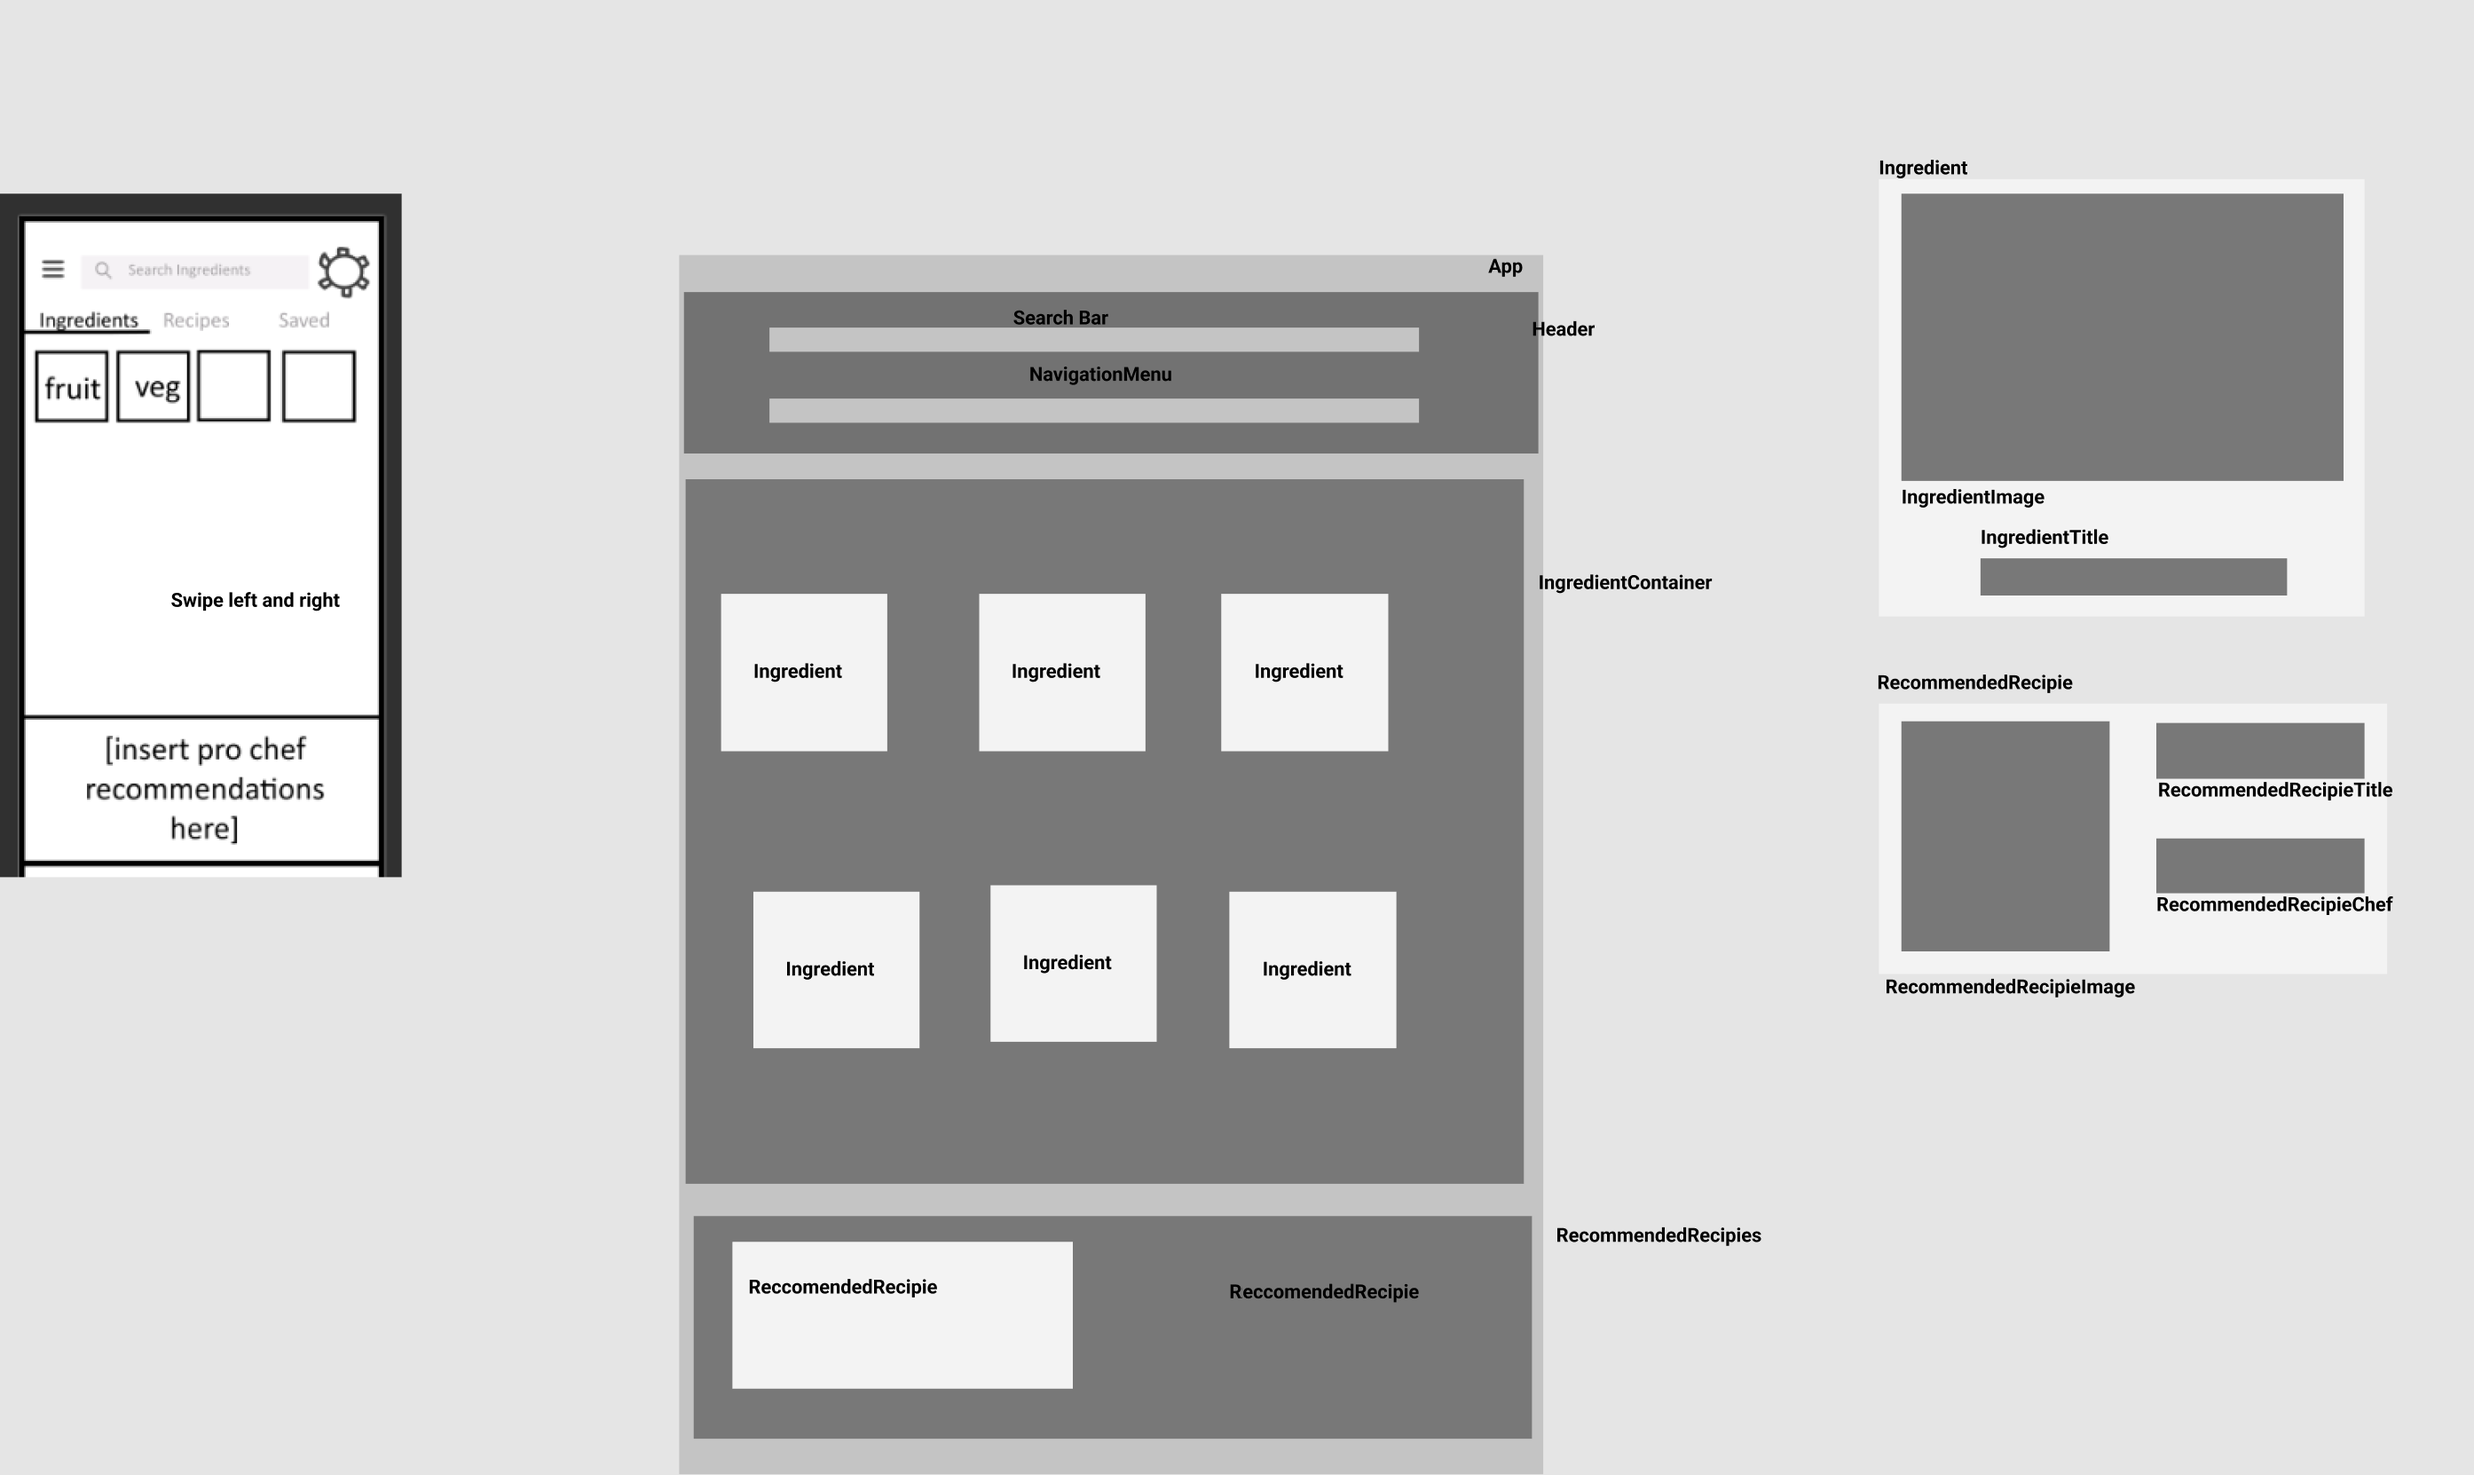
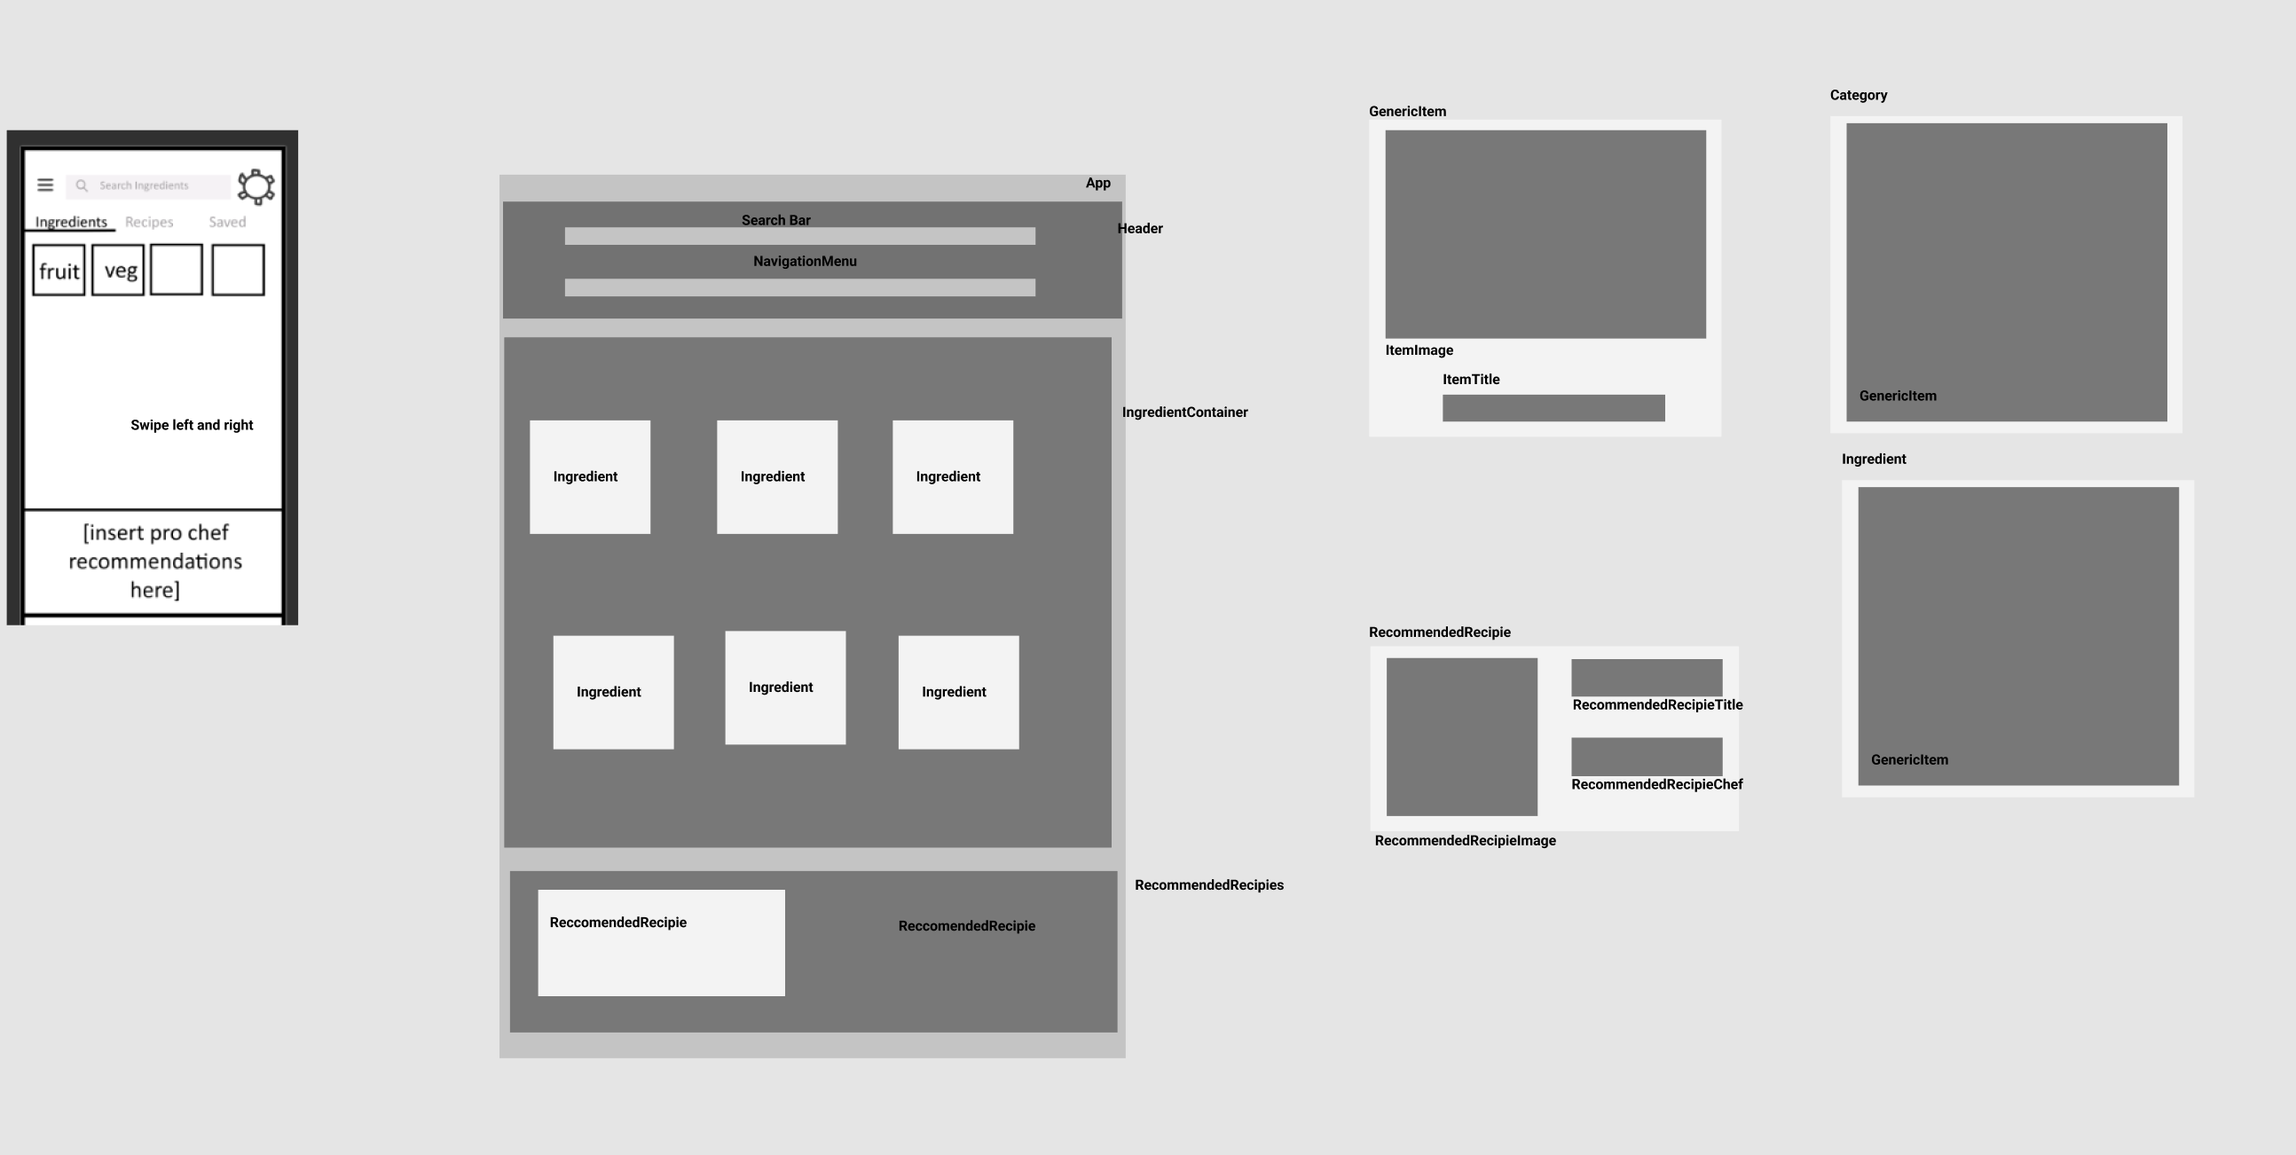
updated folder structure

diff --git a/src/App.js b/src/App.js
@@ -1,8 +1,17 @@
 import React from "react";
-import TestComponent from "./components/TestComponent";
+// import TestComponent from "./components/TestComponent";
+import Header from "./components/Header/Header";
+import IngredientContainer from "./components/IngredientContainer/IngredientContainer";
+import RecommendedRecipes from "./components/RecommendedRecipes/RecommendedRecipes";
 
 function App() {
-  return <TestComponent />;
+    return (
+        <div>
+            <Header />
+            <IngredientContainer />
+            <RecommendedRecipes />
+        </div>
+    );
 }
 
 export default App;

diff --git a/src/components/Header/Nav/Nav.js b/src/components/Header/Nav/Nav.js
@@ -1,8 +1,22 @@
 import React from "react";
 import styled from "styled-components";
+import Button from "./Button";
 
 const Nav = (props) => {
-    return <></>;
+    const ingredientsClickHandler = () => {
+        alert("Ingredients Clicked");
+    };
+
+    const recipesClickHandler = () => {
+        alert("Recipies Clicked");
+    };
+
+    return (
+        <div>
+            <Button onClick={ingredientsClickHandler} text={"Ingredients"} />
+            <Button onClick={recipesClickHandler} text={"Recipes"} />
+        </div>
+    );
 };
 
 export default Nav;

diff --git a/src/components/Header/Header.js b/src/components/Header/Header.js
@@ -1,15 +1,16 @@
 import React from "react";
 import styled from "styled-components";
+import Nav from "./Nav/Nav";
 
-function TestComponent() {
+const Header = (props) => {
     return (
-        <Style.TestDiv>
-            <p>Hello</p>
-        </Style.TestDiv>
+        <div>
+            <Nav />
+        </div>
     );
-}
+};
 
-export default TestComponent;
+export default Header;
 
 const Style = {
     TestDiv: styled.div`

diff --git a/src/components/IngredientContainer/IngredientContainer.js b/src/components/IngredientContainer/IngredientContainer.js
@@ -1,0 +1,20 @@
+import React, { useState } from "react";
+import styled from "styled-components";
+
+const IngredientContainer = (props) => {
+    const data = {};
+    const categories = [];
+    let ingredients = [];
+
+    return <div></div>;
+};
+
+export default IngredientContainer;
+
+const Style = {
+    TestDiv: styled.div`
+        & p {
+            color: ${(props) => props.theme.colors.primary};
+        }
+    `,
+};

diff --git a/src/components/Header/Nav/Button.js b/src/components/Header/Nav/Button.js
@@ -1,15 +1,11 @@
 import React from "react";
 import styled from "styled-components";
 
-function TestComponent() {
-    return (
-        <Style.TestDiv>
-            <p>Hello</p>
-        </Style.TestDiv>
-    );
-}
+const Button = (props) => {
+    return <button onClick={props.onClick}>{props.text}</button>;
+};
 
-export default TestComponent;
+export default Button;
 
 const Style = {
     TestDiv: styled.div`

diff --git a/src/components/RecipeContainer/Recipe/RecipeInformation/RecipeIngredients.js b/src/components/RecipeContainer/Recipe/RecipeInformation/RecipeIngredients.js
@@ -1,15 +1,11 @@
 import React from "react";
 import styled from "styled-components";
 
-function TestComponent() {
-    return (
-        <Style.TestDiv>
-            <p>Hello</p>
-        </Style.TestDiv>
-    );
-}
+const RecipeIngredients = (props) => {
+    return <div></div>;
+};
 
-export default TestComponent;
+export default RecipeIngredients;
 
 const Style = {
     TestDiv: styled.div`

diff --git a/src/components/RecipeContainer/RecipeContainer.js b/src/components/RecipeContainer/RecipeContainer.js
@@ -1,15 +1,11 @@
 import React from "react";
 import styled from "styled-components";
 
-function TestComponent() {
-    return (
-        <Style.TestDiv>
-            <p>Hello</p>
-        </Style.TestDiv>
-    );
-}
+const RecipeContainer = (props) => {
+    return <div></div>;
+};
 
-export default TestComponent;
+export default RecipeContainer;
 
 const Style = {
     TestDiv: styled.div`

diff --git a/src/components/RecommendedRecipes/RecommendedRecipes.js b/src/components/RecommendedRecipes/RecommendedRecipes.js
@@ -1,15 +1,11 @@
 import React from "react";
 import styled from "styled-components";
 
-function TestComponent() {
-    return (
-        <Style.TestDiv>
-            <p>Hello</p>
-        </Style.TestDiv>
-    );
-}
+const RecommendedRecipes = (props) => {
+    return <></>;
+};
 
-export default TestComponent;
+export default RecommendedRecipes;
 
 const Style = {
     TestDiv: styled.div`

diff --git a/src/components/RecipeContainer/Recipe/RecipeInformation/RecipeMethod.js b/src/components/RecipeContainer/Recipe/RecipeInformation/RecipeMethod.js
@@ -1,15 +1,11 @@
 import React from "react";
 import styled from "styled-components";
 
-function TestComponent() {
-    return (
-        <Style.TestDiv>
-            <p>Hello</p>
-        </Style.TestDiv>
-    );
-}
+const RecipeMethod = (props) => {
+    return <div></div>;
+};
 
-export default TestComponent;
+export default RecipeMethod;
 
 const Style = {
     TestDiv: styled.div`

diff --git a/src/components/RecipeContainer/Recipe/RecipeInformation/RecipeTitle.js b/src/components/RecipeContainer/Recipe/RecipeInformation/RecipeTitle.js
@@ -1,15 +1,11 @@
 import React from "react";
 import styled from "styled-components";
 
-function TestComponent() {
-    return (
-        <Style.TestDiv>
-            <p>Hello</p>
-        </Style.TestDiv>
-    );
-}
+const RecipeTitle = (props) => {
+    return <div></div>;
+};
 
-export default TestComponent;
+export default RecipeTitle;
 
 const Style = {
     TestDiv: styled.div`

diff --git a/src/components/IngredientContainer/Ingredient.js b/src/components/IngredientContainer/Ingredient.js
@@ -1,15 +1,11 @@
 import React from "react";
 import styled from "styled-components";
 
-function TestComponent() {
-    return (
-        <Style.TestDiv>
-            <p>Hello</p>
-        </Style.TestDiv>
-    );
-}
+const Ingredient = (props) => {
+    return <></>;
+};
 
-export default TestComponent;
+export default Ingredient;
 
 const Style = {
     TestDiv: styled.div`

diff --git a/src/components/IngredientContainer/GenericItem/ItemImage.js b/src/components/IngredientContainer/GenericItem/ItemImage.js
@@ -1,15 +1,11 @@
 import React from "react";
 import styled from "styled-components";
 
-function TestComponent() {
-    return (
-        <Style.TestDiv>
-            <p>Hello</p>
-        </Style.TestDiv>
-    );
-}
+const ItemImage = (props) => {
+    return <></>;
+};
 
-export default TestComponent;
+export default ItemImage;
 
 const Style = {
     TestDiv: styled.div`
